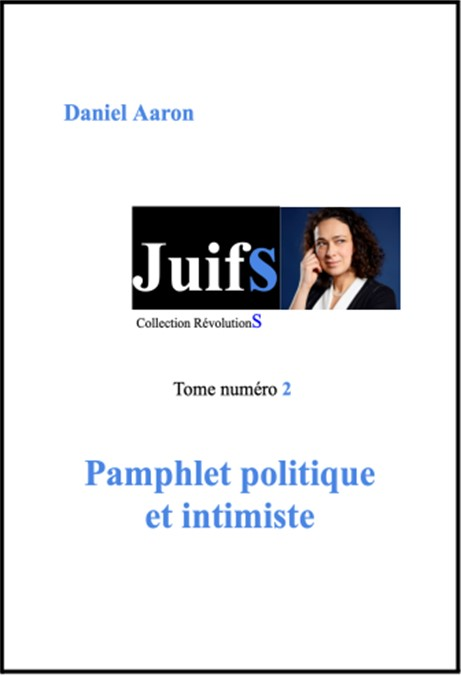
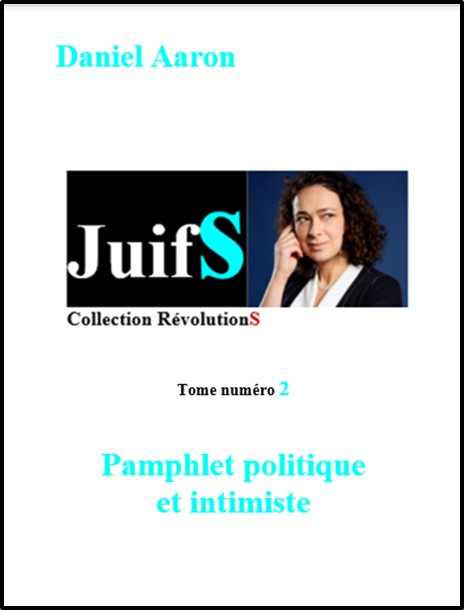
MAJ

diff --git a/index.html b/index.html
@@ -250,9 +250,9 @@
             <div class="back">
               <figure>
                 <img src="images/tome2.jpg" alt="Une image contenant graphisme, capture d’écran, affiche, Graphique"
-                  class="log">
+                  class="log2">
               </figure>
-              <h2>5 Septembre 2023</h2>
+              <h2 class="juifs">5 Septembre 2023</h2>
               <h3>PRIX: 19€</h3>
               <p>
                 Pamphlet émerveillé sur la première religion monothéiste, celle que toutes les autres ont prise en
@@ -265,7 +265,7 @@
                 vont à l’encontre de leurs propres enfants...
               </p>
               <form method="post" action="page.html">
-                <input type="submit" value="Disponible Bientôt" class="boutonJoin">
+                <input type="submit" value="Disponible Bientôt" class="boutonJoinJuifs">
               </form>
             </div>
 

diff --git a/style.css b/style.css
@@ -448,6 +448,12 @@ h5 {
     cursor: pointer;
 }
 
+.log2 {
+    width: 70%;
+    align-items: center;
+    cursor: pointer;
+}
+
 /*CODE COULEUR DES LIVRES*/
 /*Femmes*/
 
@@ -510,6 +516,29 @@ h5 {
 
 .politique {
     color:  rgba(1, 2, 253, 1);
+    justify-content: center;
+}
+
+/*Juifs*/
+.boutonJoinJuifs {
+    color: rgba(1, 255, 249, 1);
+    border: 1px solid rgba(1, 255, 249, 1);
+    background: none;
+    border-radius: 8px;
+    font-size: 1.3em;
+    margin-top: 20px;
+    padding: 10px 80px 10px 80px;
+    transition: .5s ease-in-out;
+}
+
+.boutonJoinJuifs:hover {
+    background:  rgba(1, 255, 249, 1);
+    color: white;
+    cursor: pointer;
+}
+
+.juifs {
+    color:  rgba(1, 255, 249, 1);
     justify-content: center;
 }
 
